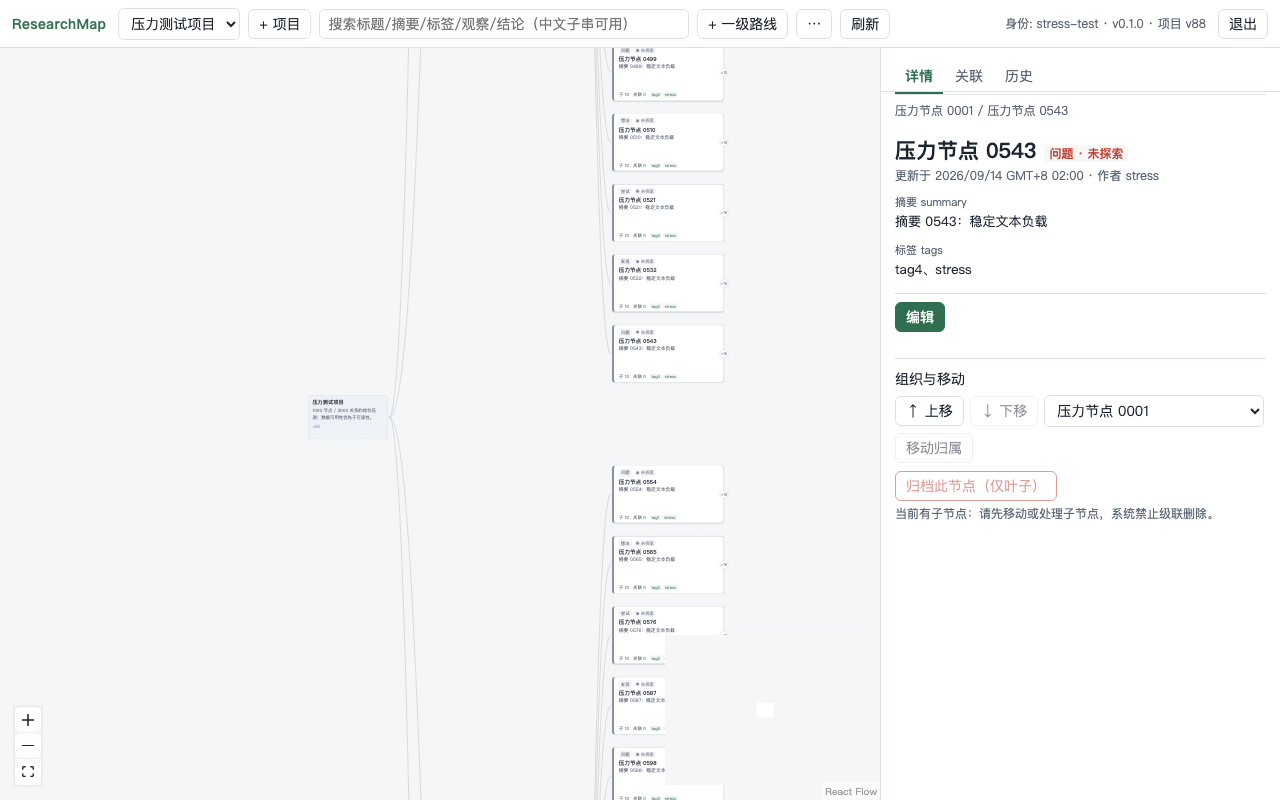
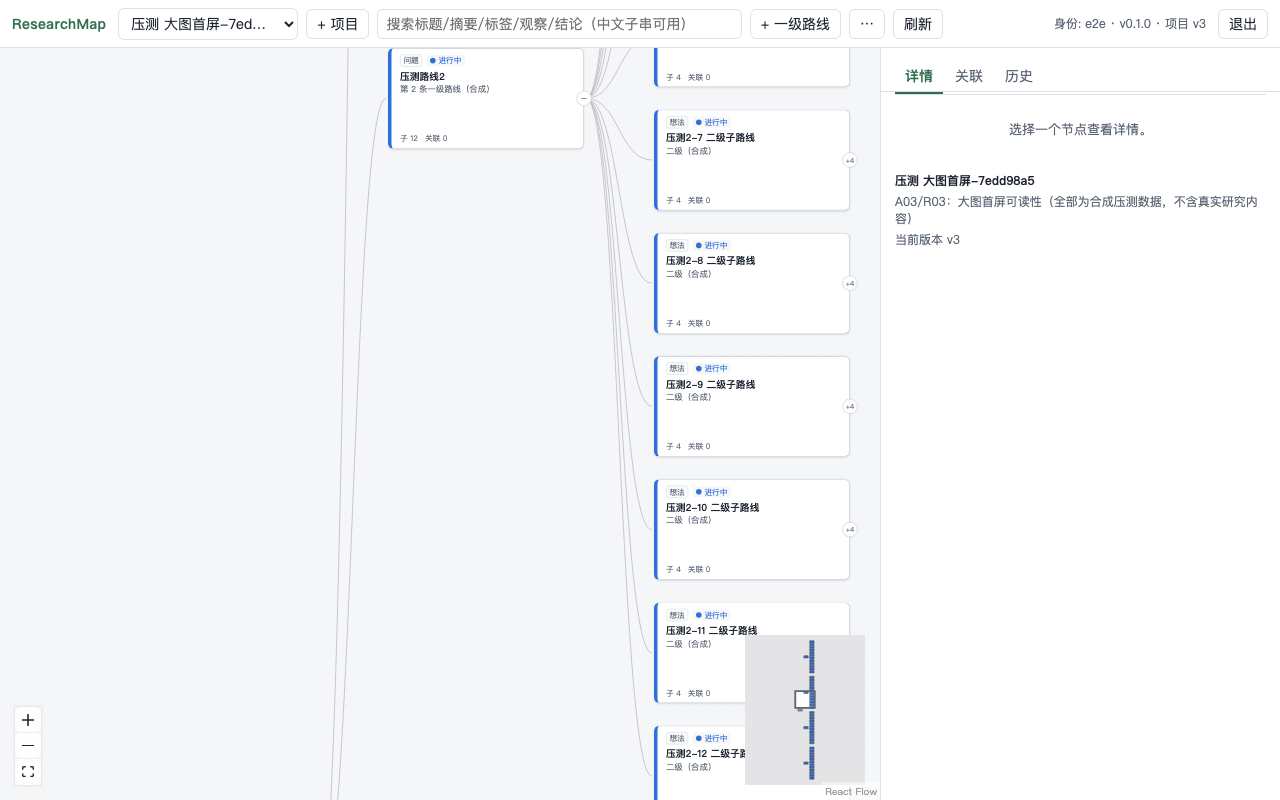
fix(canvas): open large maps at a readable zoom and make the minimap render (R03)
First open fitted the root+routes bounding box, then floored the result at
zoom 0.4. With two levels expanded d3 spreads top-level routes by subtree
size, so that box runs to thousands of px: the true fit landed far below
reading size and the floor silently overrode it, giving a viewport that was
neither fitted nor legible (card text ~5px). It now anchors on the root at a
fixed readable zoom, sliding towards the nearest route so both are on
screen; everything else is a pan or 「适应当前图」 away.

The minimap was drawing nothing but its mask. `nodes` is a controlled prop
with no onNodesChange, so React Flow could never write measured dimensions
back, and the minimap skips nodes without them. Cards are fixed-size by
construction, so the nodes now state their dimensions outright. Shaped it
portrait for tall trees without growing its footprint — it floats over the
canvas and swallows clicks where it overlaps.

diff --git a/frontend/src/workspace/Canvas.tsx b/frontend/src/workspace/Canvas.tsx
@@ -33,6 +33,11 @@ import { deepLinkHref } from "../lib/deeplink";
 export const nodeTypes = { card: NodeCard, root: RootCard };
 const edgeTypes = { relation: RelationEdge };
 
+/** A03/R03: the zoom at which a 280px card's body text is actually readable.
+ *  First open and search-locate both land here, so "readable" means one thing
+ *  in this app rather than being re-derived per entry point. */
+export const READABLE_ZOOM = 0.7;
+
 const VIEW_KEY = (pid: string) => `rm.view.${pid}`;
 interface SavedView {
   folds: string[];
@@ -142,6 +147,14 @@ function Inner(p: CanvasProps) {
         id: rootId,
         type: "root",
         position: { x: pos.x, y: pos.y },
+        // R03: cards are fixed-size by construction (layout reserves CARD_W ×
+        // CARD_H). Stating that here matters beyond documentation: this is a
+        // controlled `nodes` prop with no onNodesChange, so React Flow can
+        // never write measured dimensions back — and anything reading
+        // node.measured, the MiniMap included, would otherwise skip every node
+        // and render an empty box.
+        width: pos.width,
+        height: pos.height,
         draggable: false,
         connectable: false,
         selectable: false,
@@ -160,6 +173,8 @@ function Inner(p: CanvasProps) {
         id: n.id,
         type: "card",
         position: { x: pos.x, y: pos.y },
+        width: pos.width,
+        height: pos.height,
         draggable: false,
         connectable: false,
         data: {
@@ -258,7 +273,7 @@ function Inner(p: CanvasProps) {
     }
     const vp = flow.getViewport();
     flow.setCenter(pos.x + CARD_W / 2, pos.y + CARD_H / 2, {
-      zoom: Math.max(vp.zoom, 0.7),
+      zoom: Math.max(vp.zoom, READABLE_ZOOM),
       duration: 280,
     });
     p.onLocated();
@@ -273,11 +288,17 @@ function Inner(p: CanvasProps) {
     // eslint-disable-next-line react-hooks/exhaustive-deps
   }, [p.fitSignal]);
 
-  // ---- initial viewport (saved, or fit to root + top-level routes) ----------
-  // A03: first open without a saved view fits ONLY the virtual root plus the
-  // first-level routes, so the default viewport stays legible on large trees
-  // instead of zooming the whole tree into unreadability. Fires once, and
-  // waits for the first non-trivial layout (the graph may arrive post-mount).
+  // ---- initial viewport (saved, or readable zoom anchored on the root) ------
+  // A03/R03: first open without a saved view anchors on the virtual root at a
+  // FIXED readable zoom. Fitting the root+routes bounding box (the previous
+  // behaviour) cannot work: with two levels expanded, d3's sibling axis spreads
+  // top-level routes by the size of their subtrees, so that box runs to
+  // thousands of px and any true fit lands far below reading size — which the
+  // old Math.max(0.4, …) floor then silently overrode, producing a viewport
+  // that was neither fitted nor legible. Readability wins; the rest of the map
+  // is one pan away, or one click on 「适应当前图」.
+  // Fires once, and waits for the first non-trivial layout (the graph may
+  // arrive post-mount).
   const paneRef = useRef<HTMLDivElement | null>(null);
   const onInit = useCallback(() => {
     if (readyRef.current) return;
@@ -294,30 +315,38 @@ function Inner(p: CanvasProps) {
       flow.setViewport(saved, { duration: 0 });
       return;
     }
-    const rootId = rootIdOf(p.projectId);
-    const ids = [
-      rootId,
-      ...p.graph
-        .filter((g) => (p.branchRoot ? g.id === p.branchRoot : g.parent_id === null))
-        .map((g) => g.id),
-    ];
-    let minX = Infinity, minY = Infinity, maxX = -Infinity, maxY = -Infinity;
-    for (const id of ids) {
-      const pl = layout.positions.get(id);
-      if (!pl) continue;
-      minX = Math.min(minX, pl.x);
-      maxX = Math.max(maxX, pl.x + pl.width);
-      minY = Math.min(minY, pl.y);
-      maxY = Math.max(maxY, pl.y + pl.height);
-    }
-    if (minX === Infinity) return;
+    const anchorId = p.branchRoot ?? rootIdOf(p.projectId);
+    const anchor = layout.positions.get(anchorId);
+    if (!anchor) return;
     const w = paneRef.current?.clientWidth || 1000;
     const h = paneRef.current?.clientHeight || 700;
-    const bw = Math.max(maxX - minX, 1);
-    const bh = Math.max(maxY - minY, 1);
-    const zoom = Math.max(0.4, Math.min(1, Math.min(w / bw, h / bh) * 0.92));
+    const zoom = READABLE_ZOOM;
+    const anchorCx = anchor.x + CARD_W / 2;
+    const anchorCy = anchor.y + CARD_H / 2;
+
+    // d3 places each route at the centre of its own subtree, so on a wide map
+    // the nearest route can sit most of a screen away from the anchor. Aim the
+    // camera at the midpoint of the two — which shows both whenever they fit —
+    // but never further than keeps that route fully on screen. Routes beyond
+    // it are one pan (or 「适应当前图」) away.
+    let nearest = Infinity;
+    for (const n of p.graph) {
+      if (p.branchRoot ? n.parent_id !== p.branchRoot : n.parent_id !== null) continue;
+      const pos = layout.positions.get(n.id);
+      if (!pos) continue;
+      const d = pos.y + CARD_H / 2 - anchorCy;
+      if (Math.abs(d) < Math.abs(nearest)) nearest = d;
+    }
+    // layout px from the camera centre to the centre of a fully-visible card
+    const reach = Math.max(h / (2 * zoom) - CARD_H / 2, 0);
+    const shift = Number.isFinite(nearest)
+      ? Math.max(nearest - reach, Math.min(nearest + reach, nearest / 2))
+      : 0;
+
+    // Bias the anchor left of centre: routes hang off it to the right (depth
+    // axis), so they deserve the bulk of the viewport width.
     flow.setViewport(
-      { x: w / 2 - (minX + bw / 2) * zoom, y: h / 2 - (minY + bh / 2) * zoom, zoom },
+      { x: w * 0.25 - anchorCx * zoom, y: h / 2 - (anchorCy + shift) * zoom, zoom },
       { duration: 0 },
     );
     // eslint-disable-next-line react-hooks/exhaustive-deps
@@ -361,9 +390,19 @@ function Inner(p: CanvasProps) {
         proOptions={{ hideAttribution: false }}
       >
         <Background variant={BackgroundVariant.Dots} gap={24} size={1.2} color="#c9ced6" />
+        {/* Portrait, and no taller than the default: a left-to-right tree grows
+            far taller than it is wide, so a landscape minimap spends most of
+            its width on padding — but the widget floats over the canvas and
+            swallows clicks, so its footprint must not grow either. */}
         <MiniMap
           pannable
           zoomable
+          style={{ width: 120, height: 150 }}
+          maskColor="rgba(29,36,48,0.12)"
+          maskStrokeColor="#5c6675"
+          maskStrokeWidth={2}
+          nodeStrokeColor="#5c6675"
+          nodeStrokeWidth={40}
           nodeColor={(n) => {
             if (n.type === "root") return "#9fb0c3";
             const d = (n.data as CardData)?.node;
